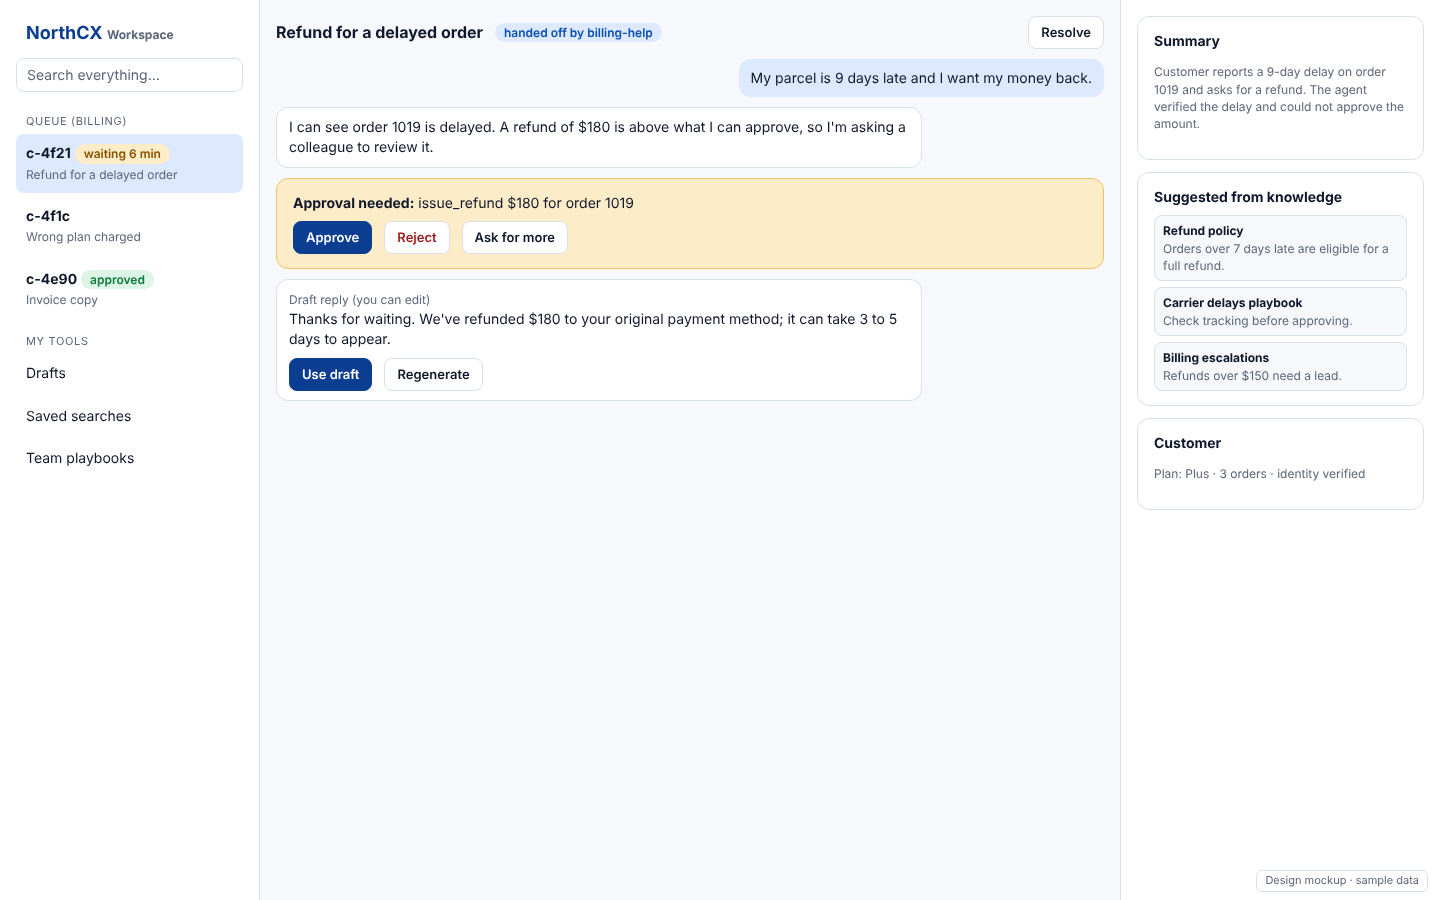
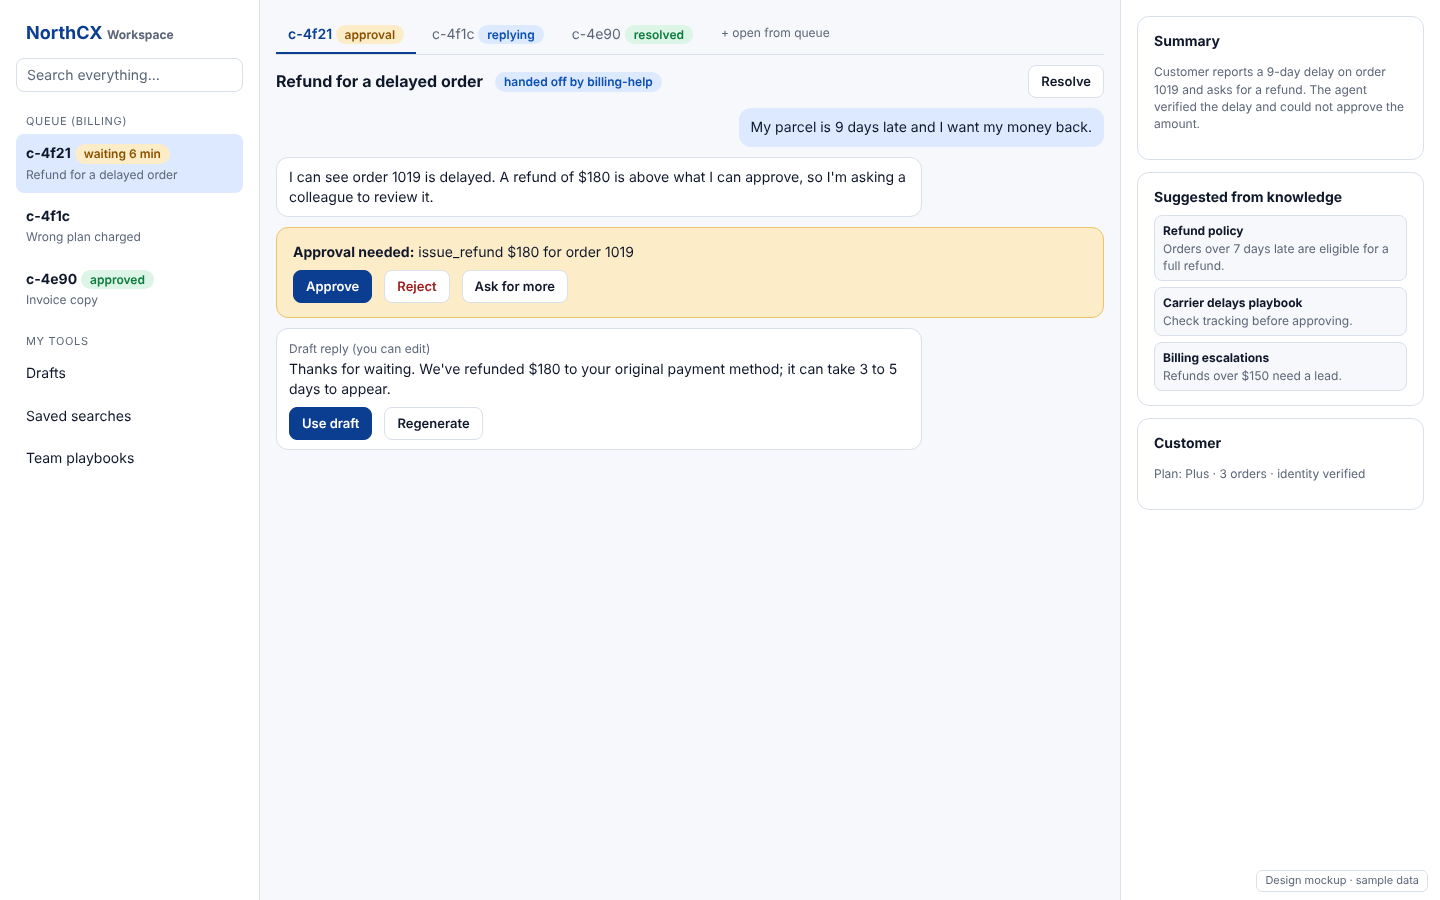
Design: Workspace and Admin as two apps, component lists for each, policies screen, open-thread tabs
Claude-Session: https://claude.ai/code/session_01JwVSXDmBfAEtrqDiy6qnSt

Changed region(s): [[0.1875, 0.0, 0.7812, 0.4978]]

diff --git a/docs/07-design/mockups/13-policies.html b/docs/07-design/mockups/13-policies.html
@@ -1,0 +1,40 @@
+<!doctype html><html lang="en"><head><meta charset="utf-8"><meta name="viewport" content="width=device-width,initial-scale=1"><title>Policies (mockup)</title><style>
+:root{--bg:#f6f8fb;--surface:#fff;--text:#0f172a;--muted:#5b6678;--border:#d9e0ea;--primary:#0b3d91;--primary-text:#fff;--ok:#0f7b3f;--ok-bg:#dcf5e6;--warn:#8a5300;--warn-bg:#fdecc8;--info:#0b4fb3;--info-bg:#dce9ff;--bad:#a11d1d;--bad-bg:#fde0e0}
+*{box-sizing:border-box}body{margin:0;background:var(--bg);color:var(--text);font:14px/1.45 Inter,ui-sans-serif,system-ui,-apple-system,"Segoe UI",sans-serif}
+.app{display:grid;grid-template-columns:232px 1fr;min-height:900px}
+aside{background:var(--surface);border-right:1px solid var(--border);padding:16px 12px}
+.brand{font-weight:700;color:var(--primary);font-size:18px;padding:4px 10px 12px}
+.grp{font-size:11px;text-transform:uppercase;letter-spacing:.06em;color:var(--muted);padding:12px 10px 4px}
+.nav a{display:flex;justify-content:space-between;align-items:center;padding:7px 10px;border-radius:8px;color:var(--muted);text-decoration:none}
+.nav a.on{background:var(--primary);color:var(--primary-text);font-weight:600}.nav .n{font-size:11px;background:var(--bad-bg);color:var(--bad);border-radius:9px;padding:0 6px}
+.nav a.on .n{background:#ffffff33;color:#fff}
+.who{margin-top:18px;border-top:1px solid var(--border);padding:12px 10px;font-size:12px;color:var(--muted)}
+.top{display:flex;gap:12px;align-items:center;padding:10px 24px;background:var(--surface);border-bottom:1px solid var(--border)}
+.search{flex:1;max-width:460px;border:1px solid var(--border);border-radius:8px;padding:7px 12px;color:var(--muted);background:var(--bg)}
+.pill{border:1px solid var(--border);border-radius:999px;padding:4px 12px;font-size:12px;background:var(--surface)}.pill b{color:var(--primary)}
+.sp{flex:1}.av{width:30px;height:30px;border-radius:50%;background:var(--info-bg);color:var(--info);display:grid;place-items:center;font-weight:700;font-size:12px}
+main{padding:20px 24px 40px}h1{font-size:22px;margin:0 0 2px}.sub{color:var(--muted);margin:0 0 16px}
+.row{display:flex;gap:12px;flex-wrap:wrap}.g4{display:grid;grid-template-columns:repeat(4,1fr);gap:12px}.g3{display:grid;grid-template-columns:repeat(3,1fr);gap:12px}.g2{display:grid;grid-template-columns:2fr 1fr;gap:12px}
+.card{background:var(--surface);border:1px solid var(--border);border-radius:12px;padding:14px 16px}.card h3{margin:0 0 8px;font-size:14px}
+.stat .l{color:var(--muted);font-size:12px}.stat .v{font-size:26px;font-weight:700}.stat .d{font-size:12px;color:var(--muted)}
+table{width:100%;border-collapse:collapse}th{text-align:left;font-size:11px;text-transform:uppercase;letter-spacing:.05em;color:var(--muted);padding:8px 10px;border-bottom:1px solid var(--border)}
+td{padding:9px 10px;border-bottom:1px solid var(--border)}tr:last-child td{border-bottom:0}.mut{color:var(--muted)}.mono{font-family:ui-monospace,Menlo,monospace;font-size:12px}
+.b{display:inline-block;border-radius:999px;padding:1px 9px;font-size:12px;font-weight:600}.ok{background:var(--ok-bg);color:var(--ok)}.warn{background:var(--warn-bg);color:var(--warn)}.info{background:var(--info-bg);color:var(--info)}.bad{background:var(--bad-bg);color:var(--bad)}.gr{background:#e8ecf2;color:var(--muted)}
+.btn{display:inline-block;border:1px solid var(--border);background:var(--surface);border-radius:8px;padding:6px 12px;font-weight:600;font-size:13px}.btn.p{background:var(--primary);color:#fff;border-color:var(--primary)}.btn.d{color:var(--bad)}
+.bar{height:8px;background:var(--border);border-radius:4px;overflow:hidden}.bar i{display:block;height:100%;background:var(--primary)}.bar i.w{background:#c27803}.bar i.r{background:var(--bad)}
+.tabs{display:flex;gap:4px;border-bottom:1px solid var(--border);margin:0 0 14px}.tabs a{padding:8px 12px;color:var(--muted);border-bottom:2px solid transparent}.tabs a.on{color:var(--primary);border-color:var(--primary);font-weight:600}
+.tools{display:flex;gap:8px;align-items:center;margin-bottom:12px}.in{border:1px solid var(--border);border-radius:8px;padding:6px 10px;background:var(--surface);color:var(--muted)}
+.drawer{position:absolute;right:0;top:0;bottom:0;width:380px;background:var(--surface);border-left:1px solid var(--border);box-shadow:-8px 0 24px #0f172a22;padding:18px}
+.field{margin:10px 0}.field label{display:block;font-size:12px;color:var(--muted);margin-bottom:3px}.field .in{display:block}
+.note{font-size:12px;color:var(--muted)}.tag{font-size:11px;border:1px solid var(--border);border-radius:6px;padding:0 6px;margin-right:4px;color:var(--muted)}
+.chat{display:flex;flex-direction:column;gap:10px}.msg{max-width:78%;padding:9px 12px;border-radius:12px}.u{background:var(--info-bg);align-self:flex-end}.a{background:var(--surface);border:1px solid var(--border)}
+.src{font-size:12px;border:1px solid var(--border);border-radius:8px;padding:6px 8px;margin-top:6px;background:var(--bg)}
+.mock{position:fixed;right:12px;bottom:8px;font-size:11px;color:var(--muted);background:var(--surface);border:1px solid var(--border);border-radius:6px;padding:2px 8px}
+</style></head><body>
+<div class="app"><aside><div class="brand">NorthCX</div><div class="nav"><div class="grp">Operate</div><a class=""><span>Overview</span></a><a class=""><span>Conversations</span></a><a class=""><span>Handoffs</span><span class=n>3</span></a><a class=""><span>Approvals</span><span class=n>2</span></a><a class=""><span>Review and QA</span></a><div class="grp">Build</div><a class=""><span>Agents</span></a><a class=""><span>Knowledge</span></a><a class=""><span>Simulations</span></a><a class=""><span>Models and budgets</span></a><div class="grp">Govern</div><a class=""><span>People and groups</span></a><a class=""><span>Access keys</span></a><a class="on"><span>Policies</span></a><a class=""><span>Audit and activity</span></a><div class="grp">Platform</div><a class=""><span>Connectors and MCP</span></a><a class=""><span>Usage and cost</span></a><a class=""><span>Data residency</span></a><a class=""><span>Settings</span></a></div><div class="who">Signed in as <b>Priya N.</b><br>Administrator &middot; SSO</div></aside>
+<div style="position:relative"><div class="top"><div class="search">Search conversations, agents, people, settings&hellip; &nbsp;<span class="tag">Ctrl K</span></div><div class="sp"></div><span class="pill">Tenant <b>Acme Support (sample)</b></span><span class="pill">Environment <b>Production</b></span><span class="pill">Alerts <b>1</b></span><div class="av">PN</div></div>
+<main><h1>Policies</h1><p class="sub">Rules for what agents may do. Each setting shows where it comes from and whether it can be changed here.</p>
+<div class="tabs"><a class="on">Agents</a><a>Data</a><a>Sign-in</a><a>Release</a></div>
+<div class="card" style="padding:4px 6px"><table><thead><tr><th>Setting</th><th>Value here</th><th>Comes from</th><th>Lock</th><th>Applies to</th></tr></thead><tbody><tr><td><b>Agents may call write tools</b><br><span class=note>Only tools marked as write and covered by an approval rule</span></td><td>On</td><td><span class="b gr">Platform default</span></td><td>&mdash;</td><td>All agents</td></tr><tr><td><b>Refunds without approval up to</b></td><td>$50</td><td><span class="b info">Tenant</span></td><td>&mdash;</td><td>billing-help</td></tr><tr><td><b>Third-party MCP servers</b></td><td>Off</td><td><span class="b gr">Platform default</span></td><td>&#128274; locked by platform</td><td>All agents</td></tr><tr><td><b>Message content in exported traces</b></td><td>Masked</td><td><span class="b info">Tenant</span></td><td>&#128274; locked by tenant policy</td><td>All teams</td></tr><tr><td><b>Two-person rule for Production releases</b></td><td>On</td><td><span class="b info">Tenant</span></td><td>&mdash;</td><td>All agents</td></tr><tr><td><b>Daily model budget</b></td><td>$200</td><td><span class="b warn">Team Support</span></td><td>&mdash;</td><td>Team Support</td></tr><tr><td><b>Data may be sent to</b></td><td>us, eu</td><td><span class="b info">Tenant</span></td><td>&#128274; locked by tenant policy</td><td>All agents</td></tr></tbody></table></div>
+<div class="g2" style="margin-top:12px"><div class="card"><h3>How to read this</h3><p class="note"><b>Comes from</b> says which level set the value: platform, tenant, team or agent. A lower level can make a setting stricter but never looser than the level above it. A locked setting shows who locked it and cannot be edited here.</p></div>
+<div class="card"><h3>Change history</h3><table><thead><tr><th>Who</th><th>What</th><th>When</th></tr></thead><tbody><tr><td>Priya N.</td><td>Daily budget for Team Support: $150 &rarr; $200</td><td>today</td></tr><tr><td>Marco L.</td><td>Two-person rule: on</td><td>3 days ago</td></tr></tbody></table></div></div></main></div></div><div class="mock">Design mockup &middot; sample data</div></body></html>

diff --git a/docs/07-design/mockups/09-staff-workspace.html b/docs/07-design/mockups/09-staff-workspace.html
@@ -36,7 +36,7 @@ td{padding:9px 10px;border-bottom:1px solid var(--border)}tr:last-child td{borde
 <div class="l"><div class="brand">NorthCX <span class="note">Workspace</span></div><div class="in" style="display:block;margin-bottom:10px">Search everything&hellip;</div><div class="grp">Queue (Billing)</div>
 <div class="item on"><b>c-4f21</b> <span class="b warn">waiting 6 min</span><br><span class="note">Refund for a delayed order</span></div><div class="item"><b>c-4f1c</b><br><span class="note">Wrong plan charged</span></div><div class="item"><b>c-4e90</b> <span class="b ok">approved</span><br><span class="note">Invoice copy</span></div>
 <div class="grp">My tools</div><div class="item">Drafts</div><div class="item">Saved searches</div><div class="item">Team playbooks</div></div>
-<div style="background:var(--bg)"><div class="row" style="align-items:center;margin-bottom:10px"><b style="font-size:16px">Refund for a delayed order</b><span class="b info">handed off by billing-help</span><div class="sp" style="flex:1"></div><span class="btn">Resolve</span></div>
+<div style="background:var(--bg)"><div class="tabs" style="margin-bottom:10px"><a class="on">c-4f21 <span class="b warn">approval</span></a><a>c-4f1c <span class="b info">replying</span></a><a>c-4e90 <span class="b ok">resolved</span></a><a class="note">+ open from queue</a></div><div class="row" style="align-items:center;margin-bottom:10px"><b style="font-size:16px">Refund for a delayed order</b><span class="b info">handed off by billing-help</span><div class="sp" style="flex:1"></div><span class="btn">Resolve</span></div>
 <div class="chat"><div class="msg u">My parcel is 9 days late and I want my money back.</div><div class="msg a">I can see order 1019 is delayed. A refund of $180 is above what I can approve, so I'm asking a colleague to review it.</div>
 <div class="card" style="background:var(--warn-bg);border-color:#e9c46a"><b>Approval needed:</b> issue_refund $180 for order 1019<div class="row" style="margin-top:8px"><span class="btn p">Approve</span><span class="btn d">Reject</span><span class="btn">Ask for more</span></div></div>
 <div class="msg a" style="align-self:flex-start"><span class="note">Draft reply (you can edit)</span><br>Thanks for waiting. We've refunded $180 to your original payment method; it can take 3 to 5 days to appear.<div class="row" style="margin-top:8px"><span class="btn p">Use draft</span><span class="btn">Regenerate</span></div></div></div></div>

diff --git a/scripts/gen_design_mockups.py b/scripts/gen_design_mockups.py
@@ -166,7 +166,7 @@ SCREENS["09-staff-workspace"] = f"""<!doctype html><html lang="en"><head><meta c
 <div class="l"><div class="brand">NorthCX <span class="note">Workspace</span></div><div class="in" style="display:block;margin-bottom:10px">Search everything&hellip;</div><div class="grp">Queue (Billing)</div>
 <div class="item on"><b>c-4f21</b> {badge("waiting 6 min","warn")}<br><span class="note">Refund for a delayed order</span></div><div class="item"><b>c-4f1c</b><br><span class="note">Wrong plan charged</span></div><div class="item"><b>c-4e90</b> {badge("approved","ok")}<br><span class="note">Invoice copy</span></div>
 <div class="grp">My tools</div><div class="item">Drafts</div><div class="item">Saved searches</div><div class="item">Team playbooks</div></div>
-<div style="background:var(--bg)"><div class="row" style="align-items:center;margin-bottom:10px"><b style="font-size:16px">Refund for a delayed order</b>{badge("handed off by billing-help","info")}<div class="sp" style="flex:1"></div><span class="btn">Resolve</span></div>
+<div style="background:var(--bg)"><div class="tabs" style="margin-bottom:10px"><a class="on">c-4f21 <span class="b warn">approval</span></a><a>c-4f1c <span class="b info">replying</span></a><a>c-4e90 <span class="b ok">resolved</span></a><a class="note">+ open from queue</a></div><div class="row" style="align-items:center;margin-bottom:10px"><b style="font-size:16px">Refund for a delayed order</b>{badge("handed off by billing-help","info")}<div class="sp" style="flex:1"></div><span class="btn">Resolve</span></div>
 <div class="chat"><div class="msg u">My parcel is 9 days late and I want my money back.</div><div class="msg a">I can see order 1019 is delayed. A refund of $180 is above what I can approve, so I'm asking a colleague to review it.</div>
 <div class="card" style="background:var(--warn-bg);border-color:#e9c46a"><b>Approval needed:</b> issue_refund $180 for order 1019<div class="row" style="margin-top:8px"><span class="btn p">Approve</span><span class="btn d">Reject</span><span class="btn">Ask for more</span></div></div>
 <div class="msg a" style="align-self:flex-start"><span class="note">Draft reply (you can edit)</span><br>Thanks for waiting. We've refunded $180 to your original payment method; it can take 3 to 5 days to appear.<div class="row" style="margin-top:8px"><span class="btn p">Use draft</span><span class="btn">Regenerate</span></div></div></div></div>
@@ -189,6 +189,20 @@ SCREENS["12-components"] = shell("Overview", "Component library", "The parts eve
 <div class="card"><h3>Error state</h3><p>{badge("Could not load","bad")}</p><p class="note">The server did not answer. Your data is safe.</p><span class="btn">Try again</span></div><div class="card"><h3>Confirm dialog</h3><p><b>Revoke key ci-pipeline?</b></p><p class="note">Anything using it stops working immediately. This is recorded in the audit log.</p><div class="row"><span class="btn d">Revoke</span><span class="btn">Cancel</span></div></div></div>
 <div class="g3" style="margin-top:12px"><div class="card"><h3>Table row actions</h3>{table(["Name","Status",""],[["support-agent",badge("Live","ok"),"&hellip;"],["onboarding",badge("Draft","gr"),"&hellip;"]])}</div><div class="card"><h3>Tabs and filters</h3><div class="tabs"><a class="on">People</a><a>Groups</a></div><div class="row"><span class="in">Search&hellip;</span><span class="in">Status: Active</span></div></div>
 <div class="card"><h3>Trace timeline row</h3><p class="mono">user &rarr; llm &rarr; tool_call lookup_invoice &rarr; tool_result &rarr; reply</p><p class="note">Step times, tokens and the approval reference shown inline.</p></div></div>""")
+
+SCREENS["13-policies"] = shell("Policies", "Policies", "Rules for what agents may do. Each setting shows where it comes from and whether it can be changed here.", f"""
+<div class="tabs"><a class="on">Agents</a><a>Data</a><a>Sign-in</a><a>Release</a></div>
+<div class="card" style="padding:4px 6px">{table(["Setting","Value here","Comes from","Lock","Applies to"],[
+ ["<b>Agents may call write tools</b><br><span class=note>Only tools marked as write and covered by an approval rule</span>","On",badge("Platform default","gr"),"&mdash;","All agents"],
+ ["<b>Refunds without approval up to</b>","$50",badge("Tenant","info"),"&mdash;","billing-help"],
+ ["<b>Third-party MCP servers</b>","Off",badge("Platform default","gr"),"&#128274; locked by platform","All agents"],
+ ["<b>Message content in exported traces</b>","Masked",badge("Tenant","info"),"&#128274; locked by tenant policy","All teams"],
+ ["<b>Two-person rule for Production releases</b>","On",badge("Tenant","info"),"&mdash;","All agents"],
+ ["<b>Daily model budget</b>","$200",badge("Team Support","warn"),"&mdash;","Team Support"],
+ ["<b>Data may be sent to</b>","us, eu",badge("Tenant","info"),"&#128274; locked by tenant policy","All agents"]])}</div>
+<div class="g2" style="margin-top:12px"><div class="card"><h3>How to read this</h3><p class="note"><b>Comes from</b> says which level set the value: platform, tenant, team or agent. A lower level can make a setting stricter but never looser than the level above it. A locked setting shows who locked it and cannot be edited here.</p></div>
+<div class="card"><h3>Change history</h3>{table(["Who","What","When"],[["Priya N.","Daily budget for Team Support: $150 &rarr; $200","today"],["Marco L.","Two-person rule: on","3 days ago"]])}</div></div>""")
+
 
 def _col(title, who, items, cls="info"):
     return f'<div class="card" style="padding:14px"><span class="b {cls}">{title}</span><p class="note" style="margin:6px 0 8px">{who}</p>' + "".join(f"<div style='padding:4px 0;border-top:1px solid var(--border)'>{i}</div>" for i in items) + "</div>"

diff --git a/docs/07-design/NorthCX_Admin-Platform-Design.md b/docs/07-design/NorthCX_Admin-Platform-Design.md
@@ -74,13 +74,52 @@ Every external system an agent can use, with allowed hosts, tools (and which wri
 ![Review and QA](../assets/design/10-review-qa.png)
 A queue built from hand-offs, low ratings, guardrail blocks, outliers and random samples, scorecards, reviewer calibration and sampling rules; a failed review can become a regression scenario. Review and the judge exist; scorecards, calibration, sampling and assignment are E7.
 
+### Policies (where each setting comes from)
+![Policies](../assets/design/13-policies.png)
+Each setting shows its value, which level set it (platform, tenant, team, agent), whether it is locked from above and what it applies to. A lower level may be stricter, never looser. Backend: the existing settings are environment variables today; per-tenant and per-team settings come with E2 (WP2.5).
+
 ### Staff workspace
 ![Staff workspace](../assets/design/09-staff-workspace.png)
-Three columns: queue, conversation with inline approval and an editable draft reply, and a side panel with a summary, knowledge suggestions and the customer's context. Backend is E5; hand-offs, approvals and knowledge search exist and are the first things it would use.
+Three columns: queue, open conversations as tabs with their status, conversation with inline approval and an editable draft reply, and a side panel with a summary, knowledge suggestions and the customer's context. Backend is E5; hand-offs, approvals and knowledge search exist and are the first things it would use.
 
 ## 4. Components
 ![Components](../assets/design/12-components.png)
 Buttons (primary, secondary, destructive), status badges, stat tiles, budget bars, tables with row actions, tabs and filters, form fields, drawers, empty, loading and error states, confirm dialogs, trace timeline. They use the shared design tokens (light and dark). Today `packages/ui` has states, status badge, trace timeline and answer charts; tables, drawers, filters, dialogs, tabs and stat tiles would be added there so every app shares them.
+
+## 4a. Components of the two windows (decided: two separate apps)
+Decision of 2026-11-09: the staff **Workspace** and the **Admin** platform are two separate apps with one sign-in and one design system. Today = exists in Studio or `packages/ui`; New = to build.
+
+### Window 1: Workspace (`apps/workspace`, for support staff and team leads)
+| Area | Components | Status |
+|---|---|---|
+| Frame | App header with search, status (available, away), notifications, account menu, app switcher | New |
+| Left rail | Queue list (by team, with waiting time and priority), open-thread tabs with status (approval, replying, resolved), saved searches, drafts, team playbooks | New |
+| Conversation | Message timeline (customer, agent, staff, system notes), hand-off banner with reason, inline approval card (approve, reject, ask for more), reply composer with draft reply, regenerate, attach, canned answers | Approval and hand-off data exist; the screen is New |
+| Right panel | Conversation summary, suggested knowledge sources with the passage used, customer context (plan, orders, identity verified), conversation tags, related past conversations | New |
+| Actions | Resolve, return to agent, transfer to queue or person, add note, set tag, flag for review | Hand-off resolve exists in the API |
+| Search | One search across knowledge, conversations and hand-offs, with access applied per result | New (SearchProvider, E5) |
+| Ask the copilot | Side chat with a staff agent (search, summarise, draft, report) | New (E5) |
+| States | Empty queue, loading, error, offline banner, session expired | Partly in `packages/ui` |
+
+### Window 2: Admin (`apps/studio`, extended, for administrators, release managers, developers, reviewers, auditors)
+| Group | Pages and their components | Status |
+|---|---|---|
+| Frame | Grouped navigation, global search (Ctrl K), tenant and environment switchers, alerts bell, account menu, app switcher, role-aware hiding | Flat navigation exists; rest New |
+| Operate | **Overview** (needs-attention list, stat tiles, agent health, channel mix, spend by team, recent changes); **Conversations** (search, filters, transcript, trace timeline); **Handoffs** (queue, detail, resolve); **Approvals** (list, decision, expiry); **Review and QA** (queue, scorecard form, calibration, sampling rules, create scenario from review) | Conversations, hand-offs, approvals, review exist as pages; Overview v2, scorecards, calibration, sampling New |
+| Build | **Agents** (catalog table, spec editor, builder, versions and releases, rollout panel, governance tab); **Knowledge** (sources, documents, import, crawl and schedules, search test, indexing status); **Simulations** (scenarios, runs, scenario editor, gate status); **Models and budgets** (providers, prices, capabilities, budgets, fallback order, routing) | Agents, knowledge, simulations exist; catalog fields, governance tab, models and budgets New |
+| Govern | **People and groups** (people, groups, role bindings, provisioning status); **Access keys** (list, scoped-key drawer, expiry, last used, revoke); **Policies** (setting table with source, lock and applies-to, change history); **Audit and activity** (filters, staff and agent actions, approval reference, integrity status, export) | Keys and audit exist on one page; the rest New |
+| Platform | **Connectors and MCP** (connectors, MCP servers, webhooks, test buttons, health); **Usage and cost** (by agent, team, model, period; export); **Data residency** (destination report, policy); **Settings** (single sign-on, SCIM, session policy, alerts, retention, branding) | Residency, SSO, settings, alerts exist; connectors UI, usage and cost, SCIM New |
+
+### Shared by both windows (`packages/ui` and `packages/api-client`)
+| Kind | Components | Status |
+|---|---|---|
+| Layout | App frame, page header with actions, tabs, two-column and three-column layouts, drawer, modal, confirm dialog | New (frame, tabs, drawer, dialog) |
+| Data | Data table (sort, filter, row actions, bulk select, pagination), stat tile, budget bar, ratio display, timeline, trace timeline, answer charts | Trace timeline and answer charts exist |
+| Inputs | Text, select, multi-select chips, date range, toggle, key-value editor, search box with filters | New |
+| Feedback | Status badge, toast, inline error, empty state, loading skeleton, error box with retry | Status badge, states exist |
+| Policy | Setting row with source and lock, inherited-value indicator | New |
+| Identity | Sign-in (SSO), session expiry, role gate, tenant switcher, app switcher | Role gate (`useMe`) exists |
+| Foundations | Design tokens (light and dark), focus ring, spacing and type scale, icons | Tokens exist (WP0.2) |
 
 ## 5. Rules for every screen
 Hide what the role cannot do; confirm before anything destructive and record it in the audit log; show an empty, loading and error state; keyboard and screen-reader support (labelled controls, visible focus, no colour-only status); no layout depends on hover; works at tablet width; every number says what it counts and over what period (the provisional resolution rate says so on the tile).
@@ -100,7 +139,7 @@ Vertical slices, each ending with backend, screens, tests and refreshed screensh
 | H | Staff workspace app (`apps/workspace`) | E5 and tenancy decisions |
 
 ## 7. Decisions needed
-1. **One app or two for admin?** The plan (decision #140) said Studio first, then separate admin, ops and back-office apps. I drew the admin platform as Studio extended, because the audience and sign-in are the same until multi-tenancy; splitting `apps/admin` out later is cheap because the shared parts are packages. Recommended: extend Studio now.
+1. ~~One app or two for admin?~~ **Decided 2026-11-09: two separate apps, Workspace and Admin** (see 4a). Earlier question: The plan (decision #140) said Studio first, then separate admin, ops and back-office apps. I drew the admin platform as Studio extended, because the audience and sign-in are the same until multi-tenancy; splitting `apps/admin` out later is cheap because the shared parts are packages. Recommended: extend Studio now.
 2. **Naming** of the staff product (open decision D2).
 3. **Start with slice A**, or reorder?
 4. Whether the mockups should also exist as a Figma file. The Figma connection was not available in this session, so these are HTML and PNG only.
